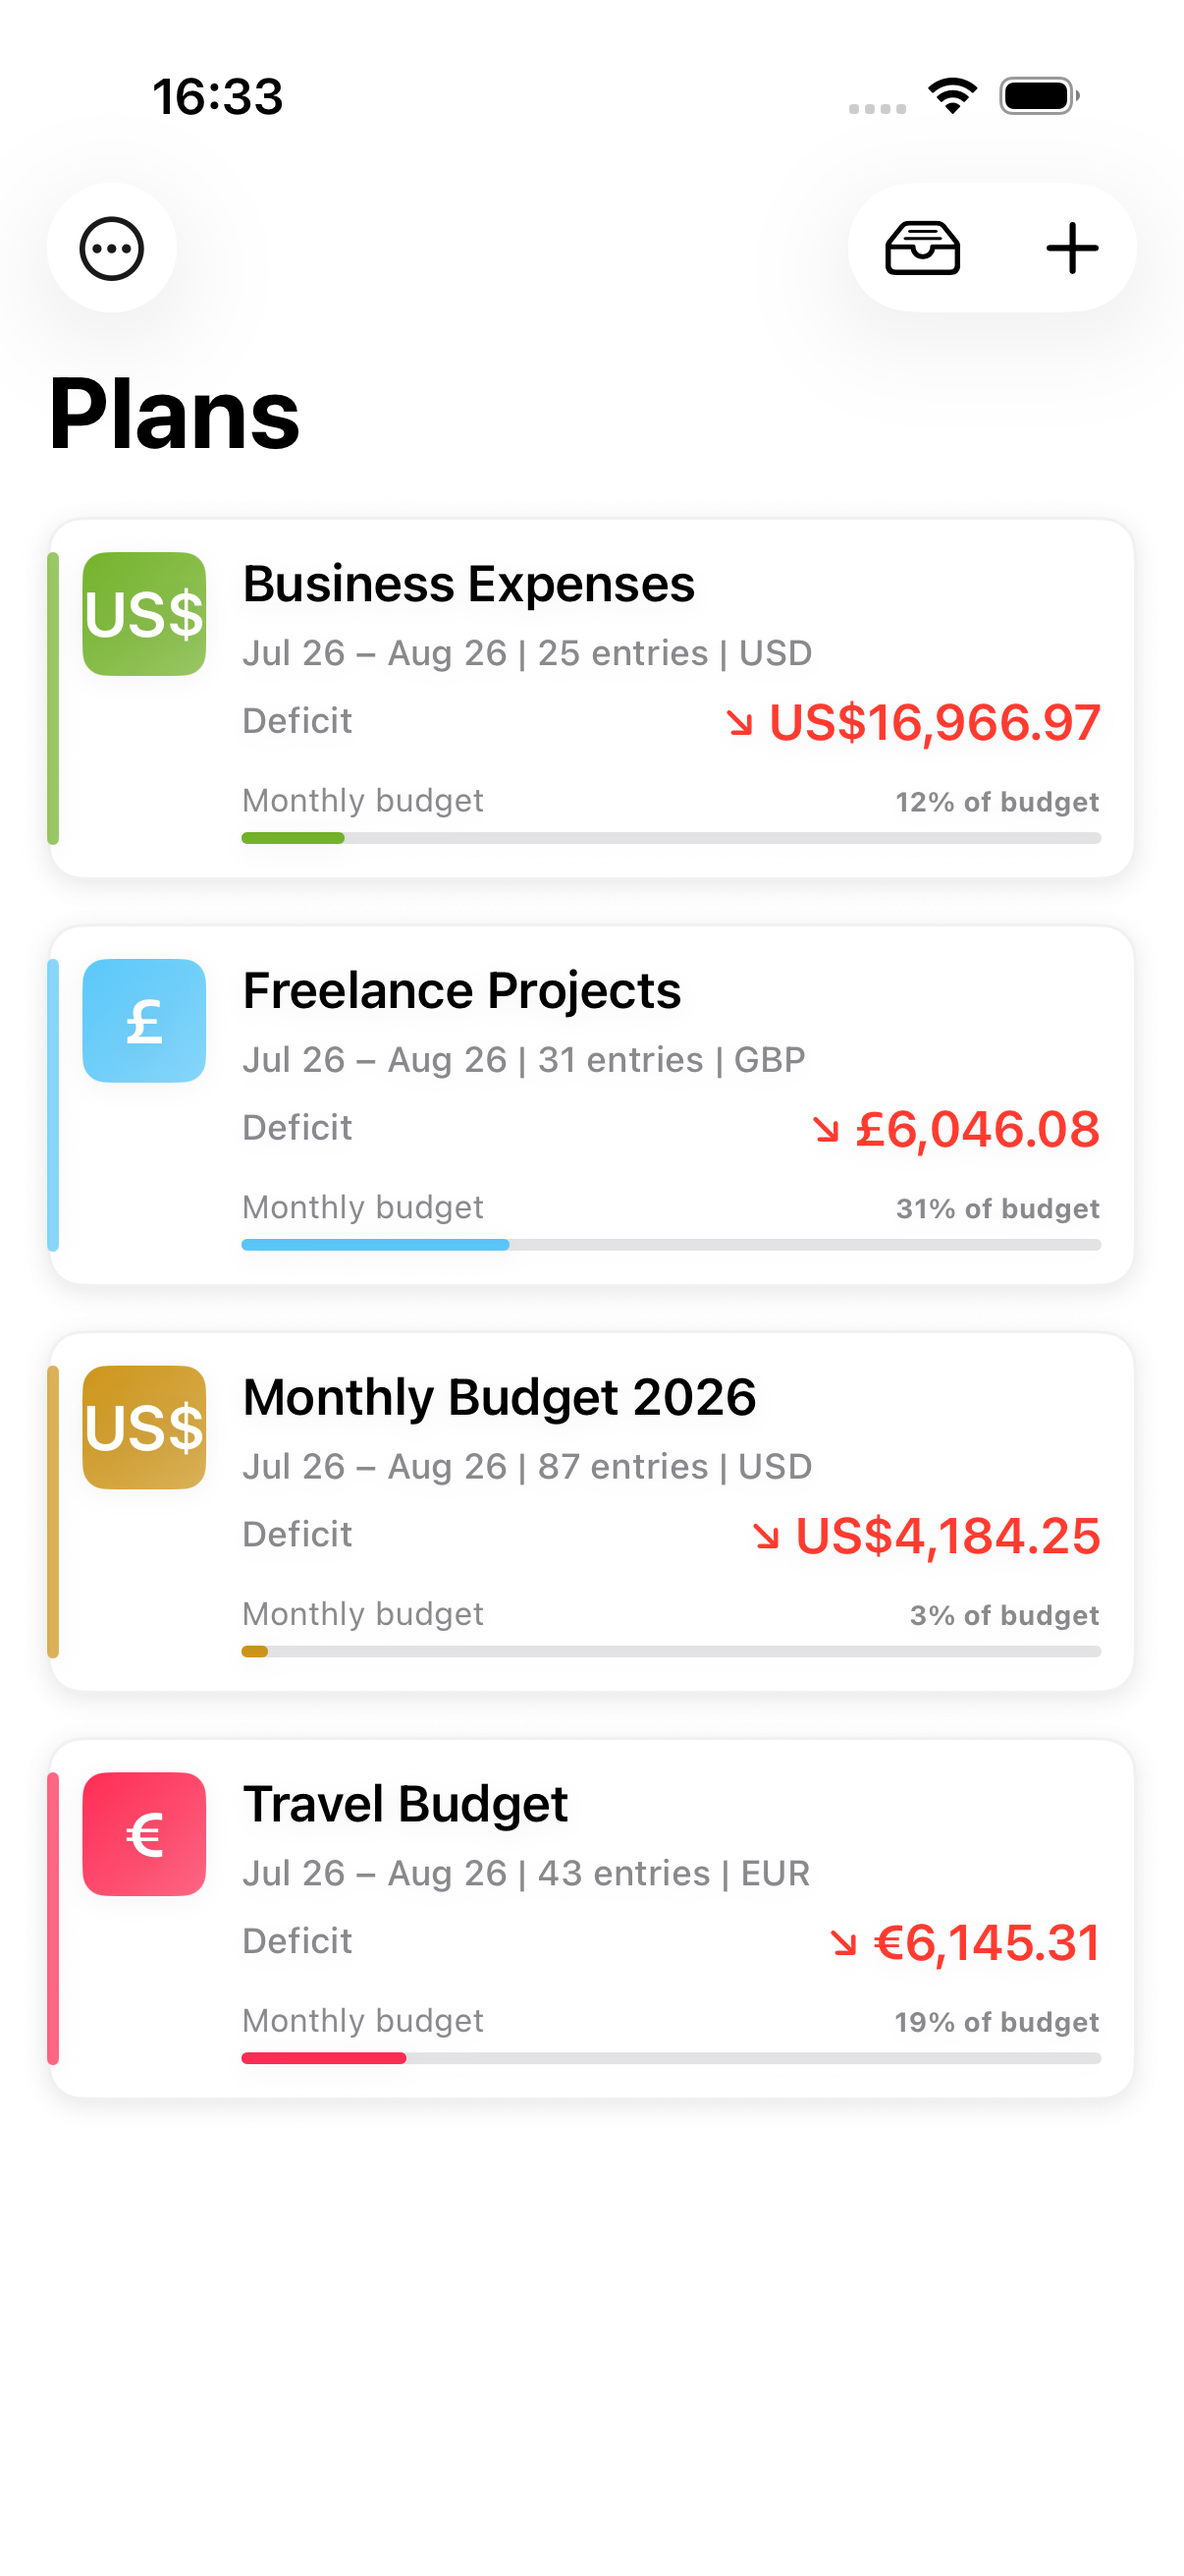
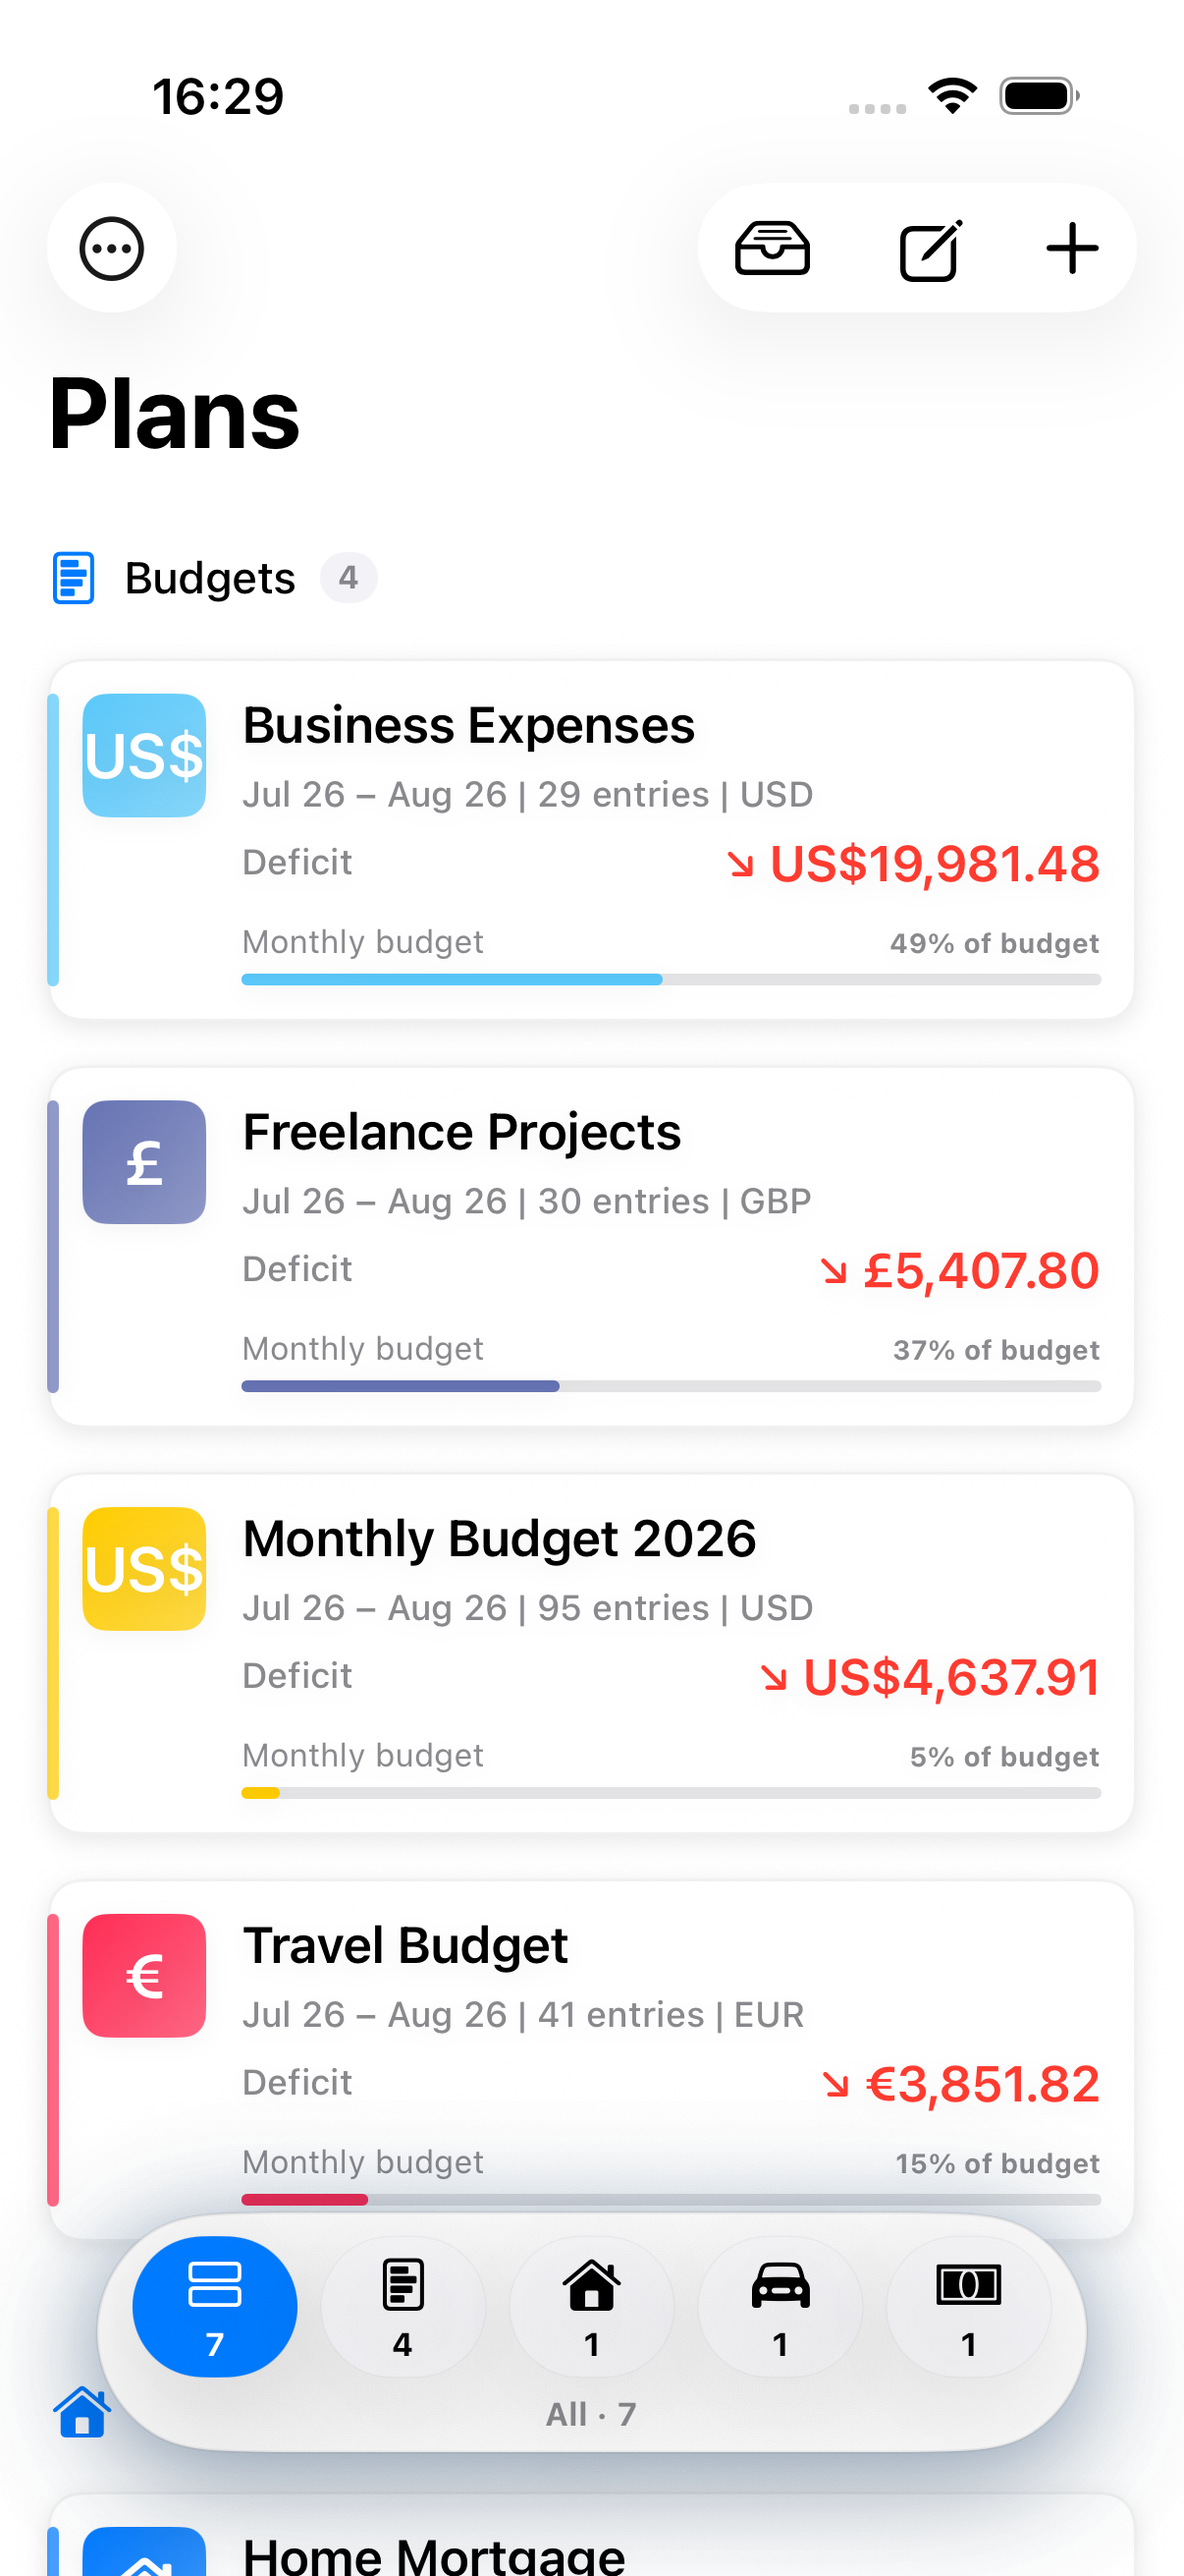
Add Loans & Deposits to the site
The app now tracks mortgages, car loans, and fixed deposits beside budget
plans, so the site gets a section of its own: what each item type takes and
what it projects, the amortization schedule, mortgage rate changes, tracked
payments compared against the schedule, the PDF report, and the point that
these items deliberately stay out of budget totals, recaps, and plan reports.

Seven entries join the free feature list, and eleven new screenshots come
from the app's own UI test run rather than mockups. The plan list screenshot
is refreshed for the type grouping and filter dock.

PROMO_PITCH.md is deliberately untouched — it has unrelated edits in progress.

diff --git a/index.html b/index.html
@@ -36,6 +36,7 @@
                 <li><a href="#setup">Setup</a></li>
                 <li><a href="#ipad">iPad</a></li>
                 <li><a href="#scenario">How It Works</a></li>
+                <li><a href="#loans">Loans</a></li>
                 <li><a href="#features">Features</a></li>
                 <li><a href="#premium">Premium</a></li>
                 <li><a href="#download">Download</a></li>
@@ -857,6 +858,87 @@
         </div>
     </section>
 
+    <!-- Loans & Deposits Section -->
+    <section id="loans" class="overview">
+        <div class="container">
+            <h2>🏠 Loans &amp; Deposits</h2>
+            <p class="section-subtitle">A budget is not the whole picture. Add a mortgage, a car loan, or a fixed deposit beside your plans, enter the terms from your statement, and see exactly where each one is heading — still with no bank login and nothing leaving your device.</p>
+            <div class="overview-grid">
+                <div class="overview-card">
+                    <div class="icon">🏠</div>
+                    <h3>Mortgages</h3>
+                    <p>Balance, rate, term, and monthly fees give you the estimated payment, the interest still to come, the next payment date, and an estimated payoff date. Charts cover the balance burn down, principal against interest, and how the rate moved.</p>
+                    <figure class="screenshot-frame small">
+                        <img src="images/feature-mortgage-dashboard.png" alt="Mortgage dashboard showing estimated outstanding balance and projection" width="1206" height="2622" loading="lazy" decoding="async">
+                    </figure>
+                </div>
+                <div class="overview-card">
+                    <div class="icon">🚗</div>
+                    <h3>Car Loans</h3>
+                    <p>Record the payments you actually make and the loan tells you whether you are ahead of, on, or behind its estimated schedule — not just what the lender's original schedule said.</p>
+                    <figure class="screenshot-frame small">
+                        <img src="images/feature-loan-payments.png" alt="Car loan payments card comparing tracked and scheduled payments" width="1206" height="2622" loading="lazy" decoding="async">
+                    </figure>
+                </div>
+                <div class="overview-card">
+                    <div class="icon">💵</div>
+                    <h3>Fixed Deposits</h3>
+                    <p>Projected maturity value and interest, with simple, monthly, quarterly, annual, or at-maturity calculation so the projection matches your bank's actual product terms.</p>
+                    <figure class="screenshot-frame small">
+                        <img src="images/feature-fixed-deposit.png" alt="Fixed deposit projection with maturity value and growth chart" width="1206" height="2622" loading="lazy" decoding="async">
+                    </figure>
+                </div>
+            </div>
+
+            <div class="overview-grid">
+                <div class="overview-card">
+                    <div class="icon">📋</div>
+                    <h3>The Full Schedule</h3>
+                    <p>Every scheduled payment, with its principal, interest, closing balance, and the rate in force that month. Rate changes are marked where they take effect.</p>
+                    <figure class="screenshot-frame small">
+                        <img src="images/feature-amortization-schedule.png" alt="Amortization schedule listing each payment with principal, interest, and balance" width="1206" height="2622" loading="lazy" decoding="async">
+                    </figure>
+                </div>
+                <div class="overview-card">
+                    <div class="icon">📈</div>
+                    <h3>When the Rate Changes</h3>
+                    <p>Repricing is normal. Give the effective date and the new rate, and the schedule recalculates from the next scheduled payment onward — the payments you already made stay as they were.</p>
+                    <figure class="screenshot-frame small">
+                        <img src="images/feature-mortgage-rate-changes.png" alt="Rate change sheet with effective date and new annual rate" width="1206" height="2622" loading="lazy" decoding="async">
+                    </figure>
+                </div>
+                <div class="overview-card">
+                    <div class="icon">📄</div>
+                    <h3>A Report You Can Send</h3>
+                    <p>Written analysis of cost, progress, and rate exposure, exported to PDF with the complete schedule and every tracked payment.</p>
+                    <figure class="screenshot-frame small">
+                        <img src="images/feature-financial-report.png" alt="Financial report with analysis, charts, and assumptions" width="1206" height="2622" loading="lazy" decoding="async">
+                    </figure>
+                </div>
+            </div>
+
+            <div class="safe-spend-grid">
+                <div class="safe-spend-card">
+                    <h3>Kept separate on purpose</h3>
+                    <p>Loans and deposits take no day-to-day entries and never fold into budget totals, recaps, or plan reports. Your grocery spending and your mortgage stay different questions.</p>
+                </div>
+                <div class="safe-spend-card">
+                    <h3>Browse by type</h3>
+                    <p>Once you keep more than one kind, the plan list groups by type and a filter dock switches between budgets, mortgages, car loans, and deposits. Keep only budgets and nothing changes.</p>
+                </div>
+                <div class="safe-spend-card">
+                    <h3>Estimates, stated as estimates</h3>
+                    <p>Every figure is calculated from what you entered. Lender and bank statements vary with fees, rounding, payment timing, tax, and product rules, and the app labels these figures as estimates rather than presenting them as your bank's.</p>
+                </div>
+            </div>
+
+            <figure class="screenshot-frame">
+                <img src="images/feature-loans-deposits.png" alt="Plan list grouped by type with a filter dock for budgets, mortgages, car loans, and deposits" width="1206" height="2622" loading="lazy" decoding="async">
+                <figcaption>One list, grouped by type, with a filter dock that appears only when you have more than one.</figcaption>
+            </figure>
+        </div>
+    </section>
+
     <!-- Advanced Planning Tools Section -->
     <section id="planning" class="advanced-planning">
         <div class="container">
@@ -1142,6 +1224,69 @@
                         <p>Create unlimited plans with card-style lists, template-aware avatars, a single working currency, billing cadence, starter categories, and export preferences.</p>
                         <figure class="screenshot-frame small">
                             <img src="images/feature-plans-budgets.png" alt="Plans list" width="1206" height="2622" loading="lazy" decoding="async">
+                        </figure>
+                    </div>
+
+                    <div class="feature-item">
+                        <div class="feature-icon">🏠</div>
+                        <h4>Mortgages, Car Loans &amp; Fixed Deposits</h4>
+                        <p>Track what you owe and what you are saving beside your budgets. Enter the balance, rate, term, and start date; the app estimates the monthly payment, the interest to come, the next payment date, and the payoff or maturity date.</p>
+                        <figure class="screenshot-frame small">
+                            <img src="images/feature-mortgage-dashboard.png" alt="Mortgage projection" width="1206" height="2622" loading="lazy" decoding="async">
+                        </figure>
+                    </div>
+
+                    <div class="feature-item">
+                        <div class="feature-icon">📋</div>
+                        <h4>Amortization Schedule</h4>
+                        <p>Every scheduled payment with its principal, interest, closing balance, and the rate in force that month — and a mortgage rate change recalculates the schedule from the payment it takes effect on.</p>
+                        <figure class="screenshot-frame small">
+                            <img src="images/feature-amortization-schedule.png" alt="Amortization schedule" width="1206" height="2622" loading="lazy" decoding="async">
+                        </figure>
+                    </div>
+
+                    <div class="feature-item">
+                        <div class="feature-icon">✅</div>
+                        <h4>Tracked Loan Payments</h4>
+                        <p>Record what you actually paid and the loan compares it with its own schedule, reporting whether you are ahead, on track, or behind — with the estimated balance adjusted to match.</p>
+                        <figure class="screenshot-frame small">
+                            <img src="images/feature-tracked-payments.png" alt="List of tracked loan payments" width="1206" height="2622" loading="lazy" decoding="async">
+                        </figure>
+                    </div>
+
+                    <div class="feature-item">
+                        <div class="feature-icon">🔮</div>
+                        <h4>Loan &amp; Deposit What-If</h4>
+                        <p>See what paying extra each month would save, or what a rate rise would cost, before committing to either. Fixed deposits compare every interest calculation your bank might use.</p>
+                        <figure class="screenshot-frame small">
+                            <img src="images/feature-loan-what-if.png" alt="What-if comparison for a loan" width="1206" height="2622" loading="lazy" decoding="async">
+                        </figure>
+                    </div>
+
+                    <div class="feature-item">
+                        <div class="feature-icon">📊</div>
+                        <h4>Mortgage Charts</h4>
+                        <p>Three views of the same loan: the balance burning down over the term, principal against total interest, and the annual rate over time with every tracked change marked.</p>
+                        <figure class="screenshot-frame small">
+                            <img src="images/feature-mortgage-charts.png" alt="Mortgage charts with burn down, principal versus interest, and rate changes" width="1206" height="2622" loading="lazy" decoding="async">
+                        </figure>
+                    </div>
+
+                    <div class="feature-item">
+                        <div class="feature-icon">🧮</div>
+                        <h4>Compounding Comparison</h4>
+                        <p>Banks differ on how a fixed deposit pays. Compare simple, monthly, quarterly, annual, and at-maturity side by side, then set the one your product actually uses.</p>
+                        <figure class="screenshot-frame small">
+                            <img src="images/feature-deposit-compounding.png" alt="Fixed deposit compounding comparison" width="1206" height="2622" loading="lazy" decoding="async">
+                        </figure>
+                    </div>
+
+                    <div class="feature-item">
+                        <div class="feature-icon">📄</div>
+                        <h4>Financial Item Report</h4>
+                        <p>Written analysis of progress, cost, and rate exposure for any loan or deposit, exported to PDF with the full schedule, tracked payments, and the assumptions used.</p>
+                        <figure class="screenshot-frame small">
+                            <img src="images/feature-financial-report.png" alt="Financial item report" width="1206" height="2622" loading="lazy" decoding="async">
                         </figure>
                     </div>
 

diff --git a/README.md b/README.md
@@ -33,12 +33,22 @@ This folder contains a complete static website for the Budgets For Plans iOS app
 6. **User Scenarios**
    - Five real-world stories showing budgeting, reporting, travel, iPad workflows, and shared family planning
 
-7. **Advanced Planning** (`#planning`)
+7. **Loans & Deposits** (`#loans`)
+   - Mortgages, car loans, and fixed deposits tracked beside budget plans
+   - Projections, amortization schedule, mortgage rate changes, tracked payments, what-if, and PDF report
+   - Type grouping and the filter dock that appears once a list holds more than one kind
+
+8. **Advanced Planning** (`#planning`)
    - Scenario Planner and Budget & Goal Health, each with an expandable walkthrough
 
-8. **Complete Features List**
+9. **Complete Features List**
    - **Core Features** (Free):
      - Plans & Budgets
+     - Mortgages, car loans, and fixed deposits with projections and status
+     - Amortization schedule with mortgage rate changes
+     - Tracked loan payments compared against the estimated schedule
+     - Loan and deposit what-if comparisons
+     - Financial item report with PDF export
      - Template-aware plan avatars and starter categories
      - Full plan report — every section, any period, free to read
      - Report scope controls (all time / 3 / 6 / 12 months / custom, category filter, household combine)
